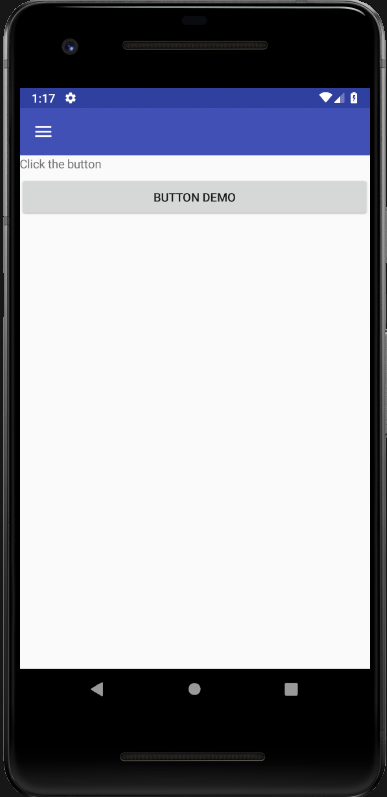
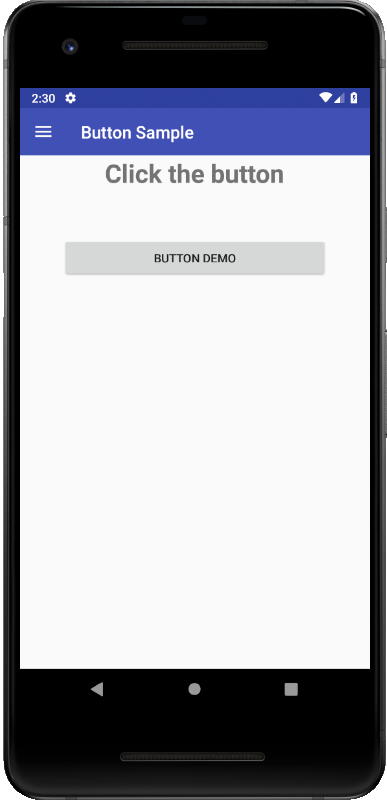
wip

diff --git a/src/samples/check-box/CheckBoxView.tsx b/src/samples/check-box/CheckBoxView.tsx
@@ -11,13 +11,16 @@ export default class CheckBoxView extends AtomXFContentPage {
     public create() {
         this.viewModel = this.resolve(CheckBoxSampleViewModel);
         this.render(
-            <XF.ContentPage>
+            <XF.ContentPage title="CheckBox Sample">
                 <XF.StackLayout>
                     <XF.StackLayout orientation="Horizontal">
                         <XF.CheckBox isChecked={Bind.twoWays(() => this.viewModel.isAgree)} />
-                        <XF.Label text="Agree the terms and condition" verticalTextAlignment="Center" />
+                        <XF.Label text="Agree the terms and condition"
+                            verticalTextAlignment="Center"
+                            fontSize={20} />
                     </XF.StackLayout>
-                    <XF.Label text={Bind.oneWay(() => this.viewModel.isAgree ? "Agree" : "Disagree")} />
+                    <XF.Label text={Bind.oneWay(() => "Selected " + (this.viewModel.isAgree ? "Agree" : "Disagree"))}
+                        fontSize={20} />
                 </XF.StackLayout>
             </XF.ContentPage>
         );

diff --git a/src/samples/combo-box/ComboBoxSample.tsx b/src/samples/combo-box/ComboBoxSample.tsx
@@ -3,18 +3,20 @@ import XNode from "@web-atoms/core/dist/core/XNode";
 import XF from "@web-atoms/xf-controls/dist/clr/XF";
 import AtomXFComboBox from "@web-atoms/xf-controls/dist/combo-box/AtomXFComboBox";
 import AtomXFContentPage from "@web-atoms/xf-controls/dist/pages/AtomXFContentPage";
-import ToggleButtonBarViewModel from "../toggle-button-bar/simple/ToggleButtonBarViewModel";
+import ComboBoxSampleViewModel from "./ComboBoxSampleViewModel";
 
 export default class ComboBoxSample extends AtomXFContentPage {
 
-    public viewModel: ToggleButtonBarViewModel;
+    public viewModel: ComboBoxSampleViewModel;
 
     public create() {
+        this.viewModel = this.resolve(ComboBoxSampleViewModel);
         this.render(<XF.ContentPage  title="ComboBox Sample">
             <XF.StackLayout orientation="Vertical">
                 <AtomXFComboBox
                     showSearch={true}
                     items={Bind.oneWay(() => this.viewModel.genderList)}
+                    valuePath="value"
                     value={Bind.twoWays(() => this.viewModel.gender)}
                     />
                 <XF.Label

diff --git a/src/samples/toggle-button-bar/custom/CustomToggleButtonBar.tsx b/src/samples/toggle-button-bar/custom/CustomToggleButtonBar.tsx
@@ -17,7 +17,7 @@ export default class CustomToggleButtonBar extends AtomXFContentPage {
         this.viewModel = this.resolve(ToggleButtonBarViewModel);
 
         this.render(
-            <XF.ContentPage title="Custom Toggle Button Sample">
+            <XF.ContentPage title="Custom Toggle Button Bar">
                 <XF.StackLayout>
                     <AtomXFToggleButtonBar
                         items={this.viewModel.genderList}
@@ -25,6 +25,8 @@ export default class CustomToggleButtonBar extends AtomXFContentPage {
                         <AtomXFToggleButtonBar.itemTemplate>
                             <XF.DataTemplate>
                                 <XF.Label
+                                    padding={10}
+                                    fontSize={30}
                                     fontFamily={FontAwesomeSolid.toString()}
                                     text={Bind.oneTime((x) =>
                                         /female/i.test(x.data.value)

diff --git a/src/samples/button/image-button/ImageButtonView.tsx b/src/samples/button/image-button/ImageButtonView.tsx
@@ -11,15 +11,13 @@ export default class ImageButtonView extends AtomXFContentPage {
     public create() {
         this.viewModel = this.resolve(ButtonViewModel);
         this.render(
-            <XF.ContentPage title="Image Button">
+            <XF.ContentPage title="ImageButton Demo">
                 <XF.StackLayout>
-                    <XF.Label text="Image button"
-                        fontSize={50}
+                    <XF.Label text="Image Button"
+                        fontSize={30}
                         fontAttributes="Bold"
                         horizontalOptions="Center" />
                     <XF.ImageButton
-                        margin={50}
-                        padding={10}
                         source="https://upload.wikimedia.org/wikipedia/commons/thumb/f/f2/Xamarin-logo.svg/1920px-Xamarin-logo.svg.png"
                         command={Bind.event((s, e) => this.viewModel.clickEvent("Image-button"))}
                         />

diff --git a/src/samples/carousel/carousel-view/CarouselView.tsx b/src/samples/carousel/carousel-view/CarouselView.tsx
@@ -42,14 +42,12 @@ export default class CarouselView extends AtomXFContentPage {
                         </XF.DataTemplate>
                     </XF.CarouselView.itemTemplate>
                 </XF.CarouselView>
-                <XF.Label text={Bind.oneWay(() =>
-                    this.viewModel.items.indexOf(this.viewModel.selectedItem))}></XF.Label>
-                <XF.IndicatorView
+                {/* <XF.IndicatorView
                     itemsSource={Bind.oneWay(() => this.viewModel.items)}
                     position={Bind.oneWay(() => this.viewModel.items.indexOf(this.viewModel.selectedItem))}
                     indicatorColor="LightGray"
                     selectedIndicatorColor="DarkGray"
-                    horizontalOptions="Center" />
+                    horizontalOptions="Center" /> */}
             </XF.StackLayout>
         </XF.ContentPage>);
     }

diff --git a/src/samples/button/ButtonView.tsx b/src/samples/button/ButtonView.tsx
@@ -13,8 +13,13 @@ export default class ButtonView extends AtomXFContentPage {
         this.render(
             <XF.ContentPage title="Button Sample">
                 <XF.StackLayout>
-                    <XF.Label text="Click the button" />
+                    <XF.Label text="Click the button"
+                        fontSize={30}
+                        fontAttributes="Bold"
+                        horizontalOptions="Center" />
                     <XF.Button
+                        margin={50}
+                        padding={10}
                         text="Button Demo"
                         command={Bind.event((s, e) => this.viewModel.clickEvent("Button"))} />
                 </XF.StackLayout>

diff --git a/src/samples/toggle-button-bar/simple/ToggleButtonBar.tsx b/src/samples/toggle-button-bar/simple/ToggleButtonBar.tsx
@@ -14,7 +14,7 @@ export default class ToggleButtonBar extends AtomXFContentPage {
         this.viewModel = this.resolve(ToggleButtonBarViewModel);
 
         this.render(
-            <XF.ContentPage title="Toggle Button Sample">
+            <XF.ContentPage title="Toggle Button Bar">
                 <XF.StackLayout>
                     <AtomXFToggleButtonBar
                         items={this.viewModel.genderList}

diff --git a/src/samples/combo-box/ComboBoxSampleViewModel.ts b/src/samples/combo-box/ComboBoxSampleViewModel.ts
@@ -1,0 +1,12 @@
+import { AtomViewModel } from "@web-atoms/core/dist/view-model/AtomViewModel";
+
+export default class ComboBoxSampleViewModel extends AtomViewModel {
+
+    public genderList = [
+        { label: "Male", value: "male" },
+        { label: "Female", value: "female" }
+    ];
+
+    public gender = "female";
+
+}
